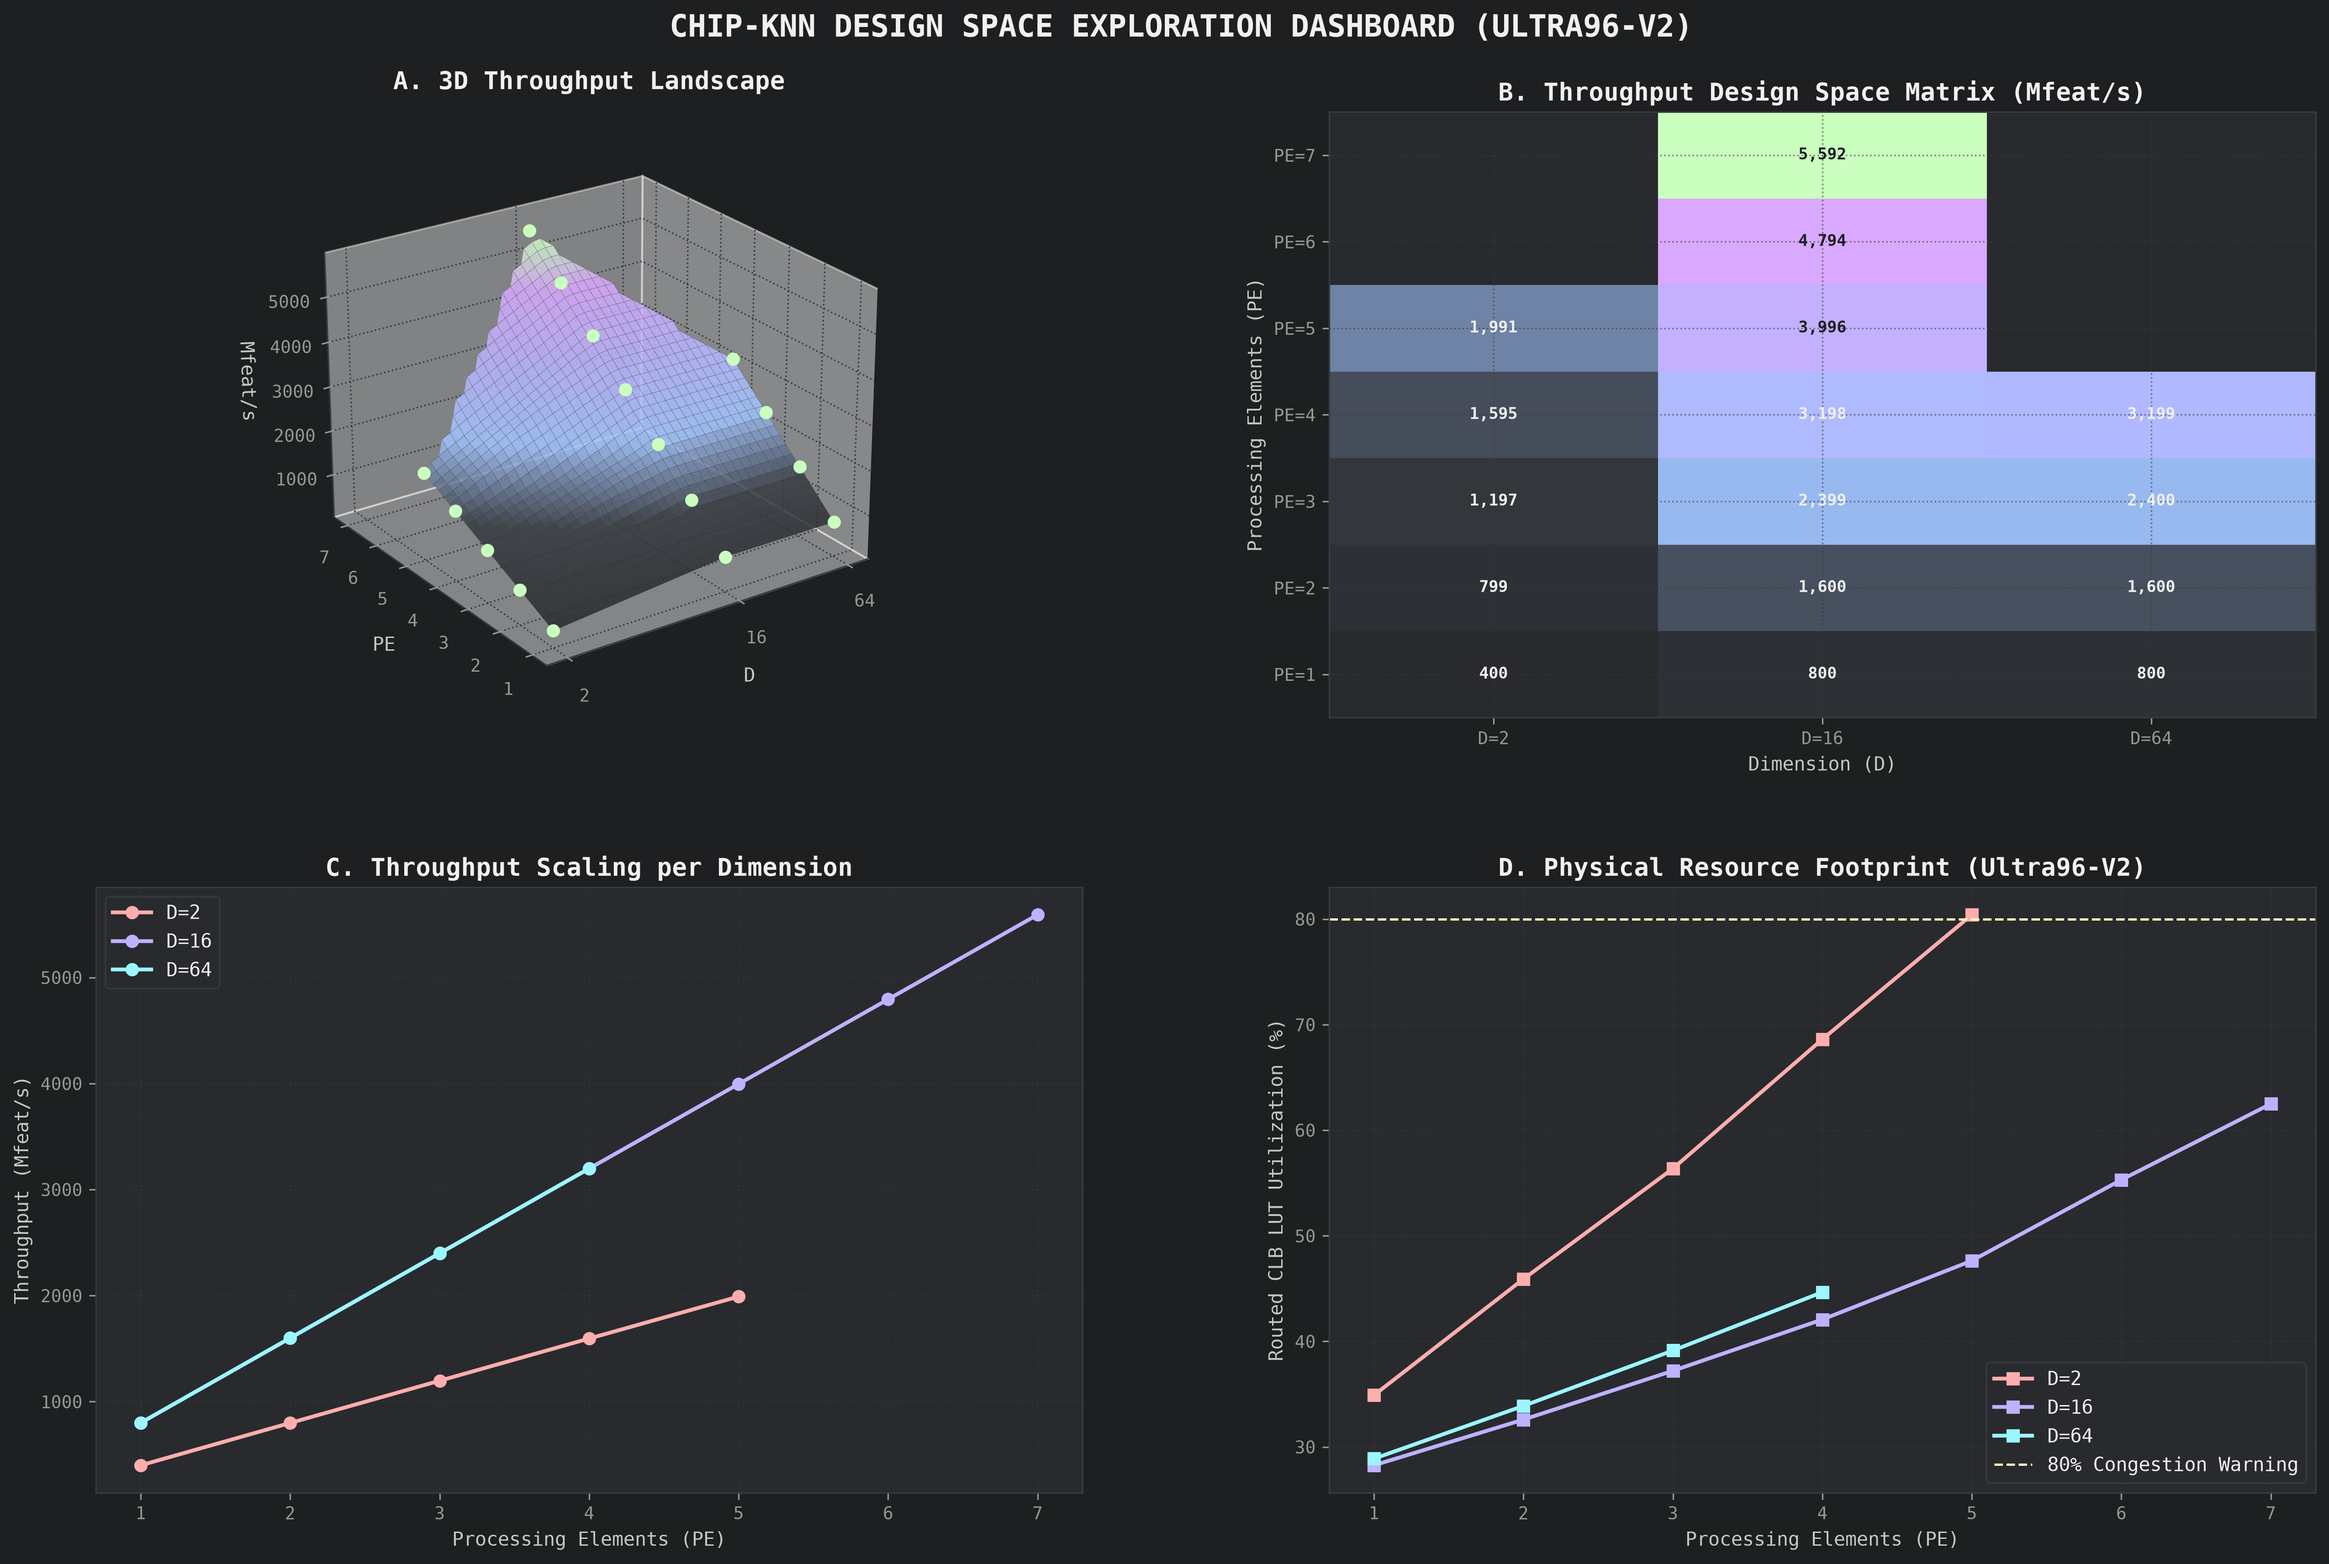
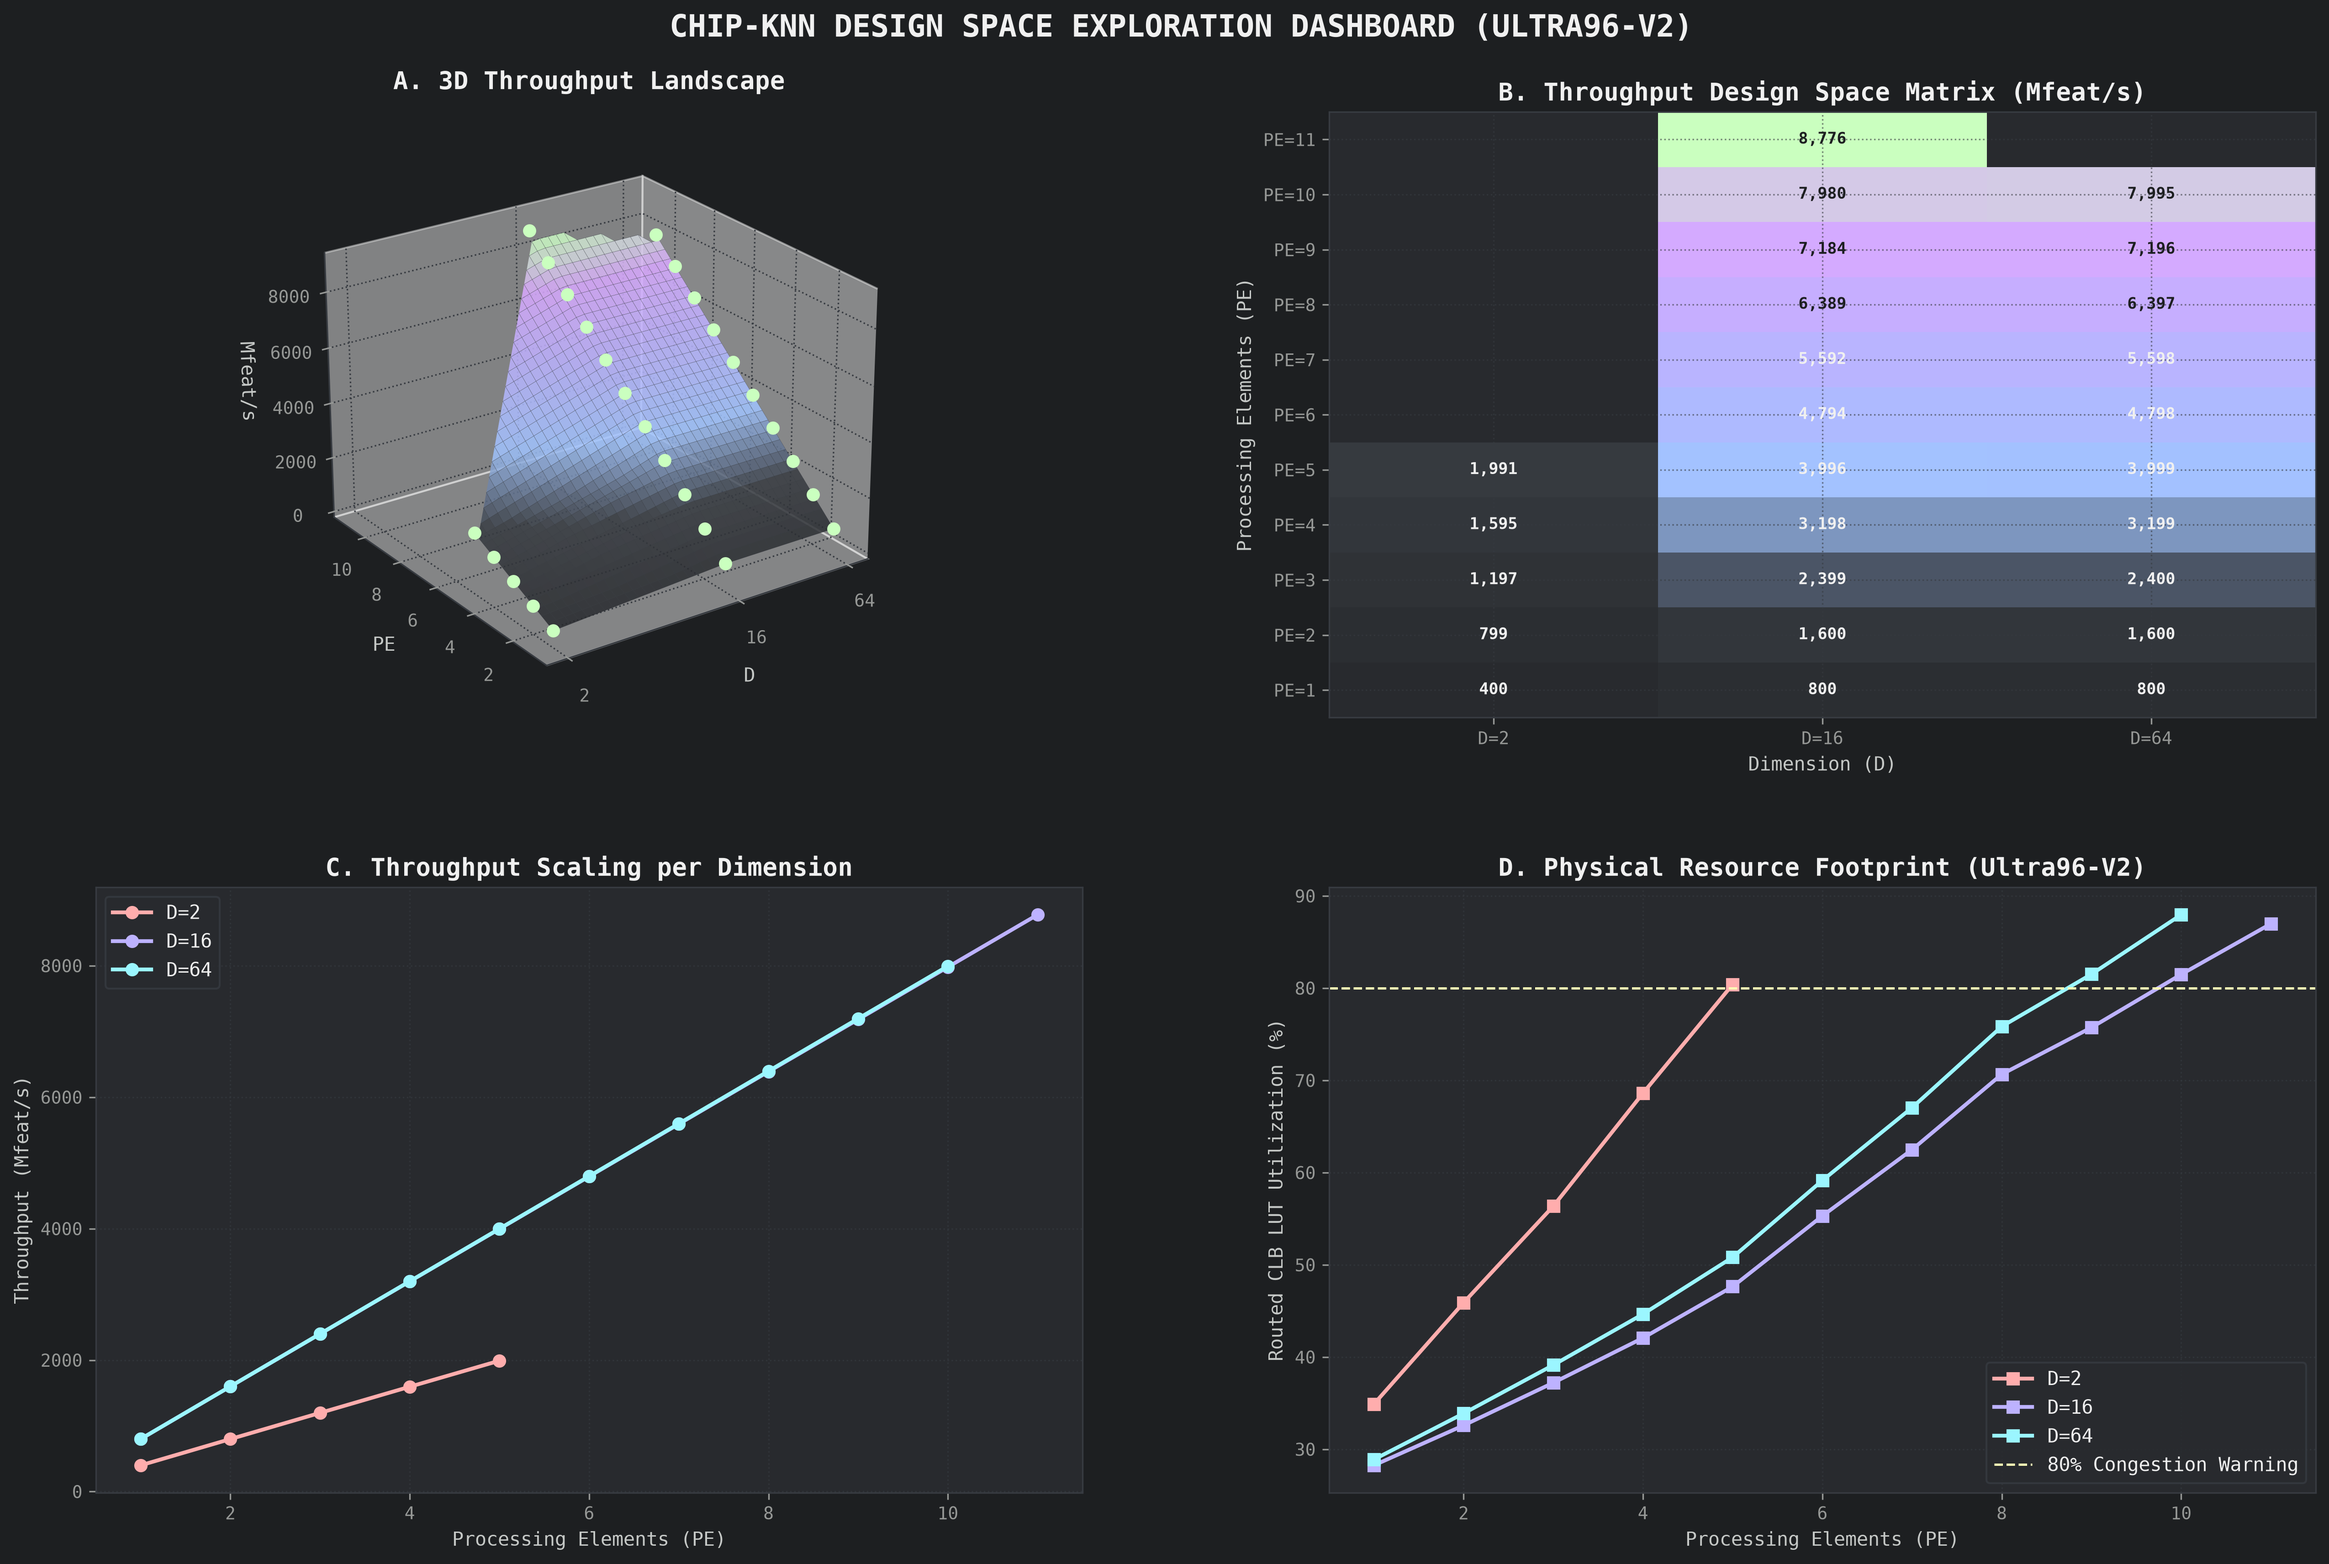
Update design space visualizations with complete 26-point bitstream sweep dataset

diff --git a/scripts/plot_throughput_surface.py b/scripts/plot_throughput_surface.py
@@ -536,6 +536,59 @@ def plot_dashboard(records, out_path, dpi=300):
 
 
 # ==============================================================================
+# Plot 6: Post-Route Timing Slack & Fmax vs Physical Utilization
+# ==============================================================================
+def plot_timing_vs_utilization(records, out_path, dpi=300):
+    """
+    Plot post-route WNS and achieved Fmax vs CLB LUT utilization across all bitstreams.
+    """
+    valid = [r for r in records if r["impl_lut"] and r["wns_ns"] is not None and r["fmax_mhz"]]
+    if not valid:
+        return
+
+    fig, (ax1, ax2) = plt.subplots(1, 2, figsize=(14, 6))
+
+    dim_colors = {2: THEME["accent_red"], 16: THEME["accent_purple"], 64: THEME["accent_cyan"]}
+
+    # Left: WNS vs LUT%
+    for d in sorted(list(set(r["dim"] for r in valid))):
+        sub = sorted([r for r in valid if r["dim"] == d], key=lambda x: x["impl_lut"])
+        lut_pct = [(r["impl_lut"] / 70560.0) * 100.0 for r in sub]
+        wns = [r["wns_ns"] for r in sub]
+        col = dim_colors.get(d, THEME["accent_blue"])
+        ax1.plot(lut_pct, wns, marker="o", color=col, linewidth=2, label=f"D={d}")
+        for r, lp, w in zip(sub, lut_pct, wns):
+            if r["pe"] in (1, sub[-1]["pe"]):
+                ax1.annotate(f"PE{r['pe']}", (lp, w), textcoords="offset points", xytext=(5, 5), fontsize=8, color=col)
+
+    ax1.axhline(0.0, color=THEME["accent_red"], linestyle="--", linewidth=1.5, label="Timing Failure (WNS < 0)")
+    ax1.axvline(80.0, color=THEME["accent_yellow"], linestyle=":", linewidth=1.2, label="80% Routing Congestion")
+    ax1.set_xlabel("Physical Routed CLB LUT Utilization (%)")
+    ax1.set_ylabel("Worst Negative Slack - WNS (ns)")
+    ax1.set_title("POST-ROUTE TIMING SLACK (TARGET = 200 MHz)")
+    ax1.legend(facecolor=THEME["bg_secondary"], edgecolor=THEME["border"], loc="upper right")
+
+    # Right: Fmax vs LUT%
+    for d in sorted(list(set(r["dim"] for r in valid))):
+        sub = sorted([r for r in valid if r["dim"] == d], key=lambda x: x["impl_lut"])
+        lut_pct = [(r["impl_lut"] / 70560.0) * 100.0 for r in sub]
+        fmax = [r["fmax_mhz"] for r in sub]
+        col = dim_colors.get(d, THEME["accent_blue"])
+        ax2.plot(lut_pct, fmax, marker="s", color=col, linewidth=2, label=f"D={d}")
+
+    ax2.axhline(200.0, color=THEME["accent_green"], linestyle="--", linewidth=1.2, label="200 MHz Target Clock")
+    ax2.set_xlabel("Physical Routed CLB LUT Utilization (%)")
+    ax2.set_ylabel("Achieved Maximum Frequency - Fmax (MHz)")
+    ax2.set_title("PHYSICAL TIMING CLOSURE: ACHIEVED Fmax")
+    ax2.legend(facecolor=THEME["bg_secondary"], edgecolor=THEME["border"], loc="upper right")
+
+    plt.subplots_adjust(left=0.08, right=0.95, top=0.90, bottom=0.12, wspace=0.25)
+    plt.savefig(out_path, dpi=dpi, bbox_inches="tight")
+    plt.close()
+    print(f"[plot_throughput_surface] Saved timing vs utilization plot to {out_path}")
+
+
+# ==============================================================================
 # CLI Entry Point
 # ==============================================================================
 def main():
@@ -560,6 +613,7 @@ def main():
     plot_2d_heatmap(records, os.path.join(args.out_dir, "throughput_heatmap_matrix.png"), dpi=args.dpi)
     plot_scaling_curves(records, os.path.join(args.out_dir, "throughput_scaling_curves.png"), dpi=args.dpi)
     plot_logic_efficiency(records, os.path.join(args.out_dir, "throughput_logic_efficiency.png"), dpi=args.dpi)
+    plot_timing_vs_utilization(records, os.path.join(args.out_dir, "timing_vs_utilization.png"), dpi=args.dpi)
     plot_dashboard(records, os.path.join(args.out_dir, "throughput_dashboard.png"), dpi=args.dpi)
 
     print(f"\n[plot_throughput_surface] All plots generated in '{args.out_dir}/'")
